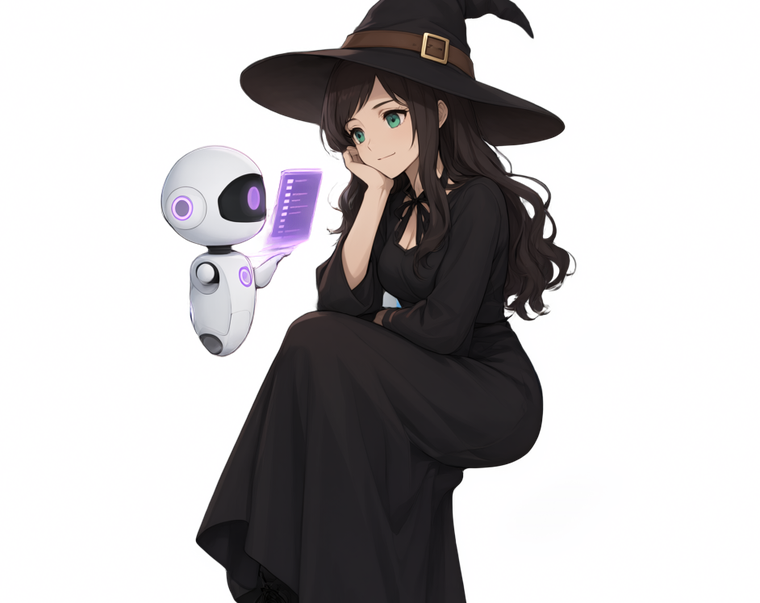
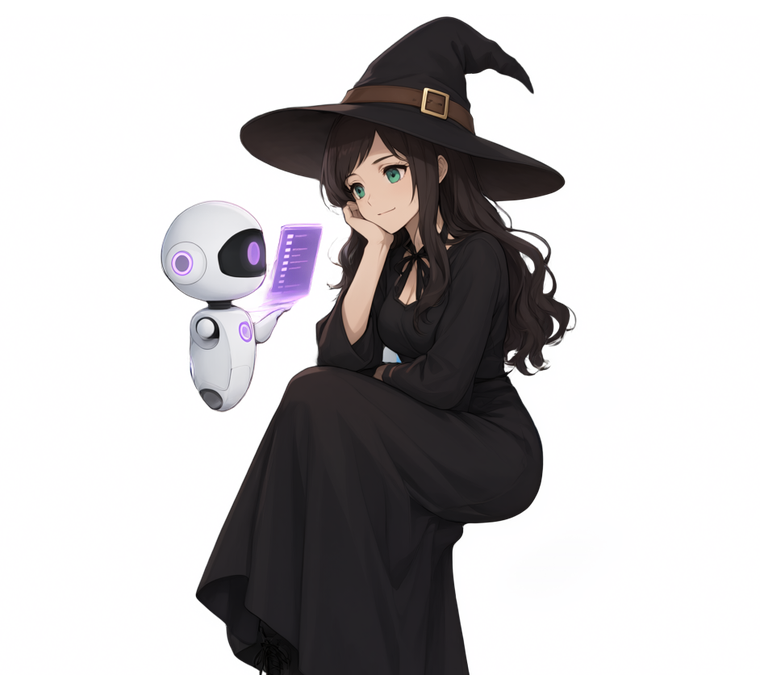
Fix cropped hat on AI assistants illustration

diff --git a/src/api/assets.rs b/src/api/assets.rs
@@ -350,7 +350,7 @@ pub const SERVICE_ART: [ServiceArt; 19] = [
         slug: "ai-assistants",
         image: include_bytes!("../../assets/services/ai-assistants.png"),
         width: 760,
-        height: 603,
+        height: 675,
     },
     ServiceArt {
         slug: "ai-automation",
